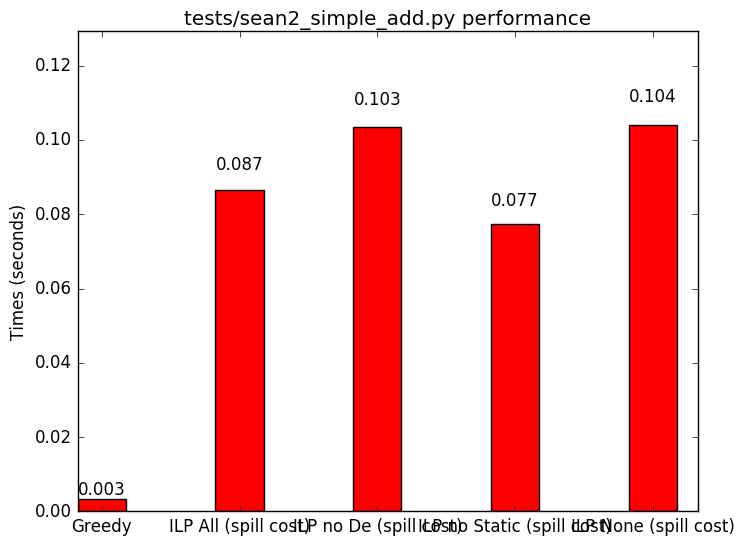
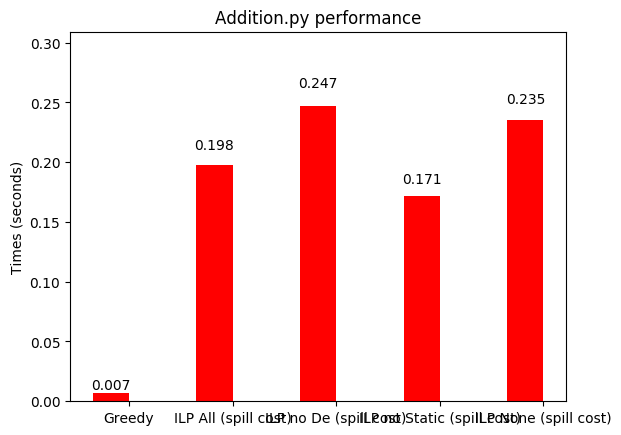
fixed plots

Changed region(s): [[0.0, 0.0, 1.0, 0.9862]]

diff --git a/testScript2.py b/testScript2.py
@@ -48,7 +48,7 @@ for input_file in input_files:
 	ilpDeSta.append(end-start)
 	print "ILP compile time with no de, static optimization:", end-start, "seconds"
 
-
+inputNames = ["Addition.py", "List.py", "Other_List.py"]
 for i in range(len(greedy)):
 	data = [greedy[i], ilpAll[i], ilpDe[i], ilpStatic[i], ilpDeSta[i]]
 	N = 5
@@ -57,7 +57,7 @@ for i in range(len(greedy)):
 	fig, ax = plt.subplots()
 	rects1 = ax.bar(ind, data, width, color='r')
 	ax.set_ylabel('Times (seconds)')
-	ax.set_title(input_files[i] + " performance")
+	ax.set_title(inputNames[i] + " performance")
 	ax.set_xticks(ind + width / 2)
 	ax.set_xticklabels(('Greedy', 'ILP All (spill cost)', 'ILP no De (spill cost)', 'ILP no Static (spill cost)', 'ILP None (spill cost)'))
 	plt.ylim((0, ilpDe[i]*1.25))

diff --git a/testScript.py b/testScript.py
@@ -48,7 +48,7 @@ for input_file in input_files:
 	ilpDeSta.append(end-start)
 	print "ILP compile time with no de, static optimization:", end-start, "seconds"
 
-
+inputNames = ["Addition.py", "List.py", "Other_List.py"]
 for i in range(len(greedy)):
 	data = [greedy[i], ilpAll[i], ilpDe[i], ilpStatic[i], ilpDeSta[i]]
 	N = 5
@@ -57,7 +57,7 @@ for i in range(len(greedy)):
 	fig, ax = plt.subplots()
 	rects1 = ax.bar(ind, data, width, color='r')
 	ax.set_ylabel('Times (seconds)')
-	ax.set_title(input_files[i] + " performance")
+	ax.set_title(inputNames[i] + " performance")
 	ax.set_xticks(ind + width / 2)
 	ax.set_xticklabels(('Greedy', 'ILP All', 'ILP no De', 'ILP no Static', 'ILP None'))
 	plt.ylim((0, ilpDe[i]*1.25))
